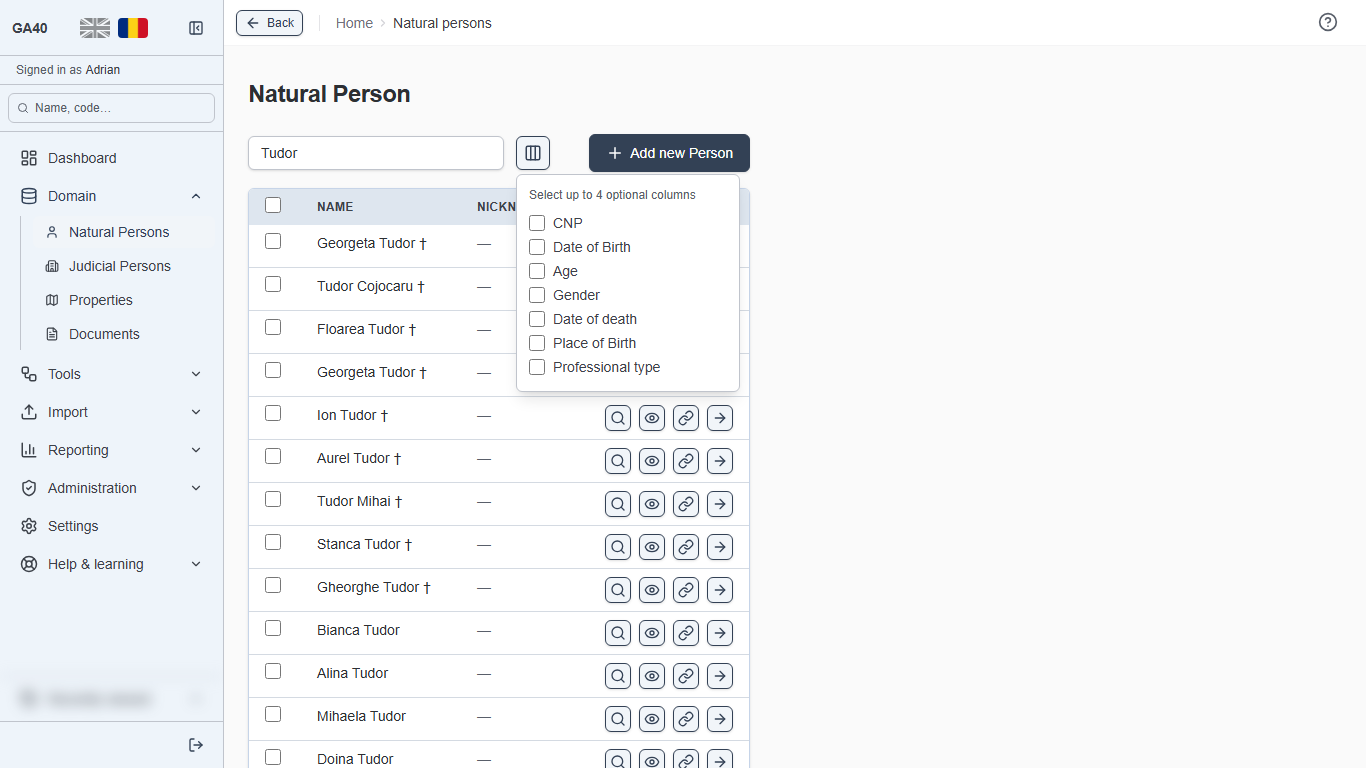
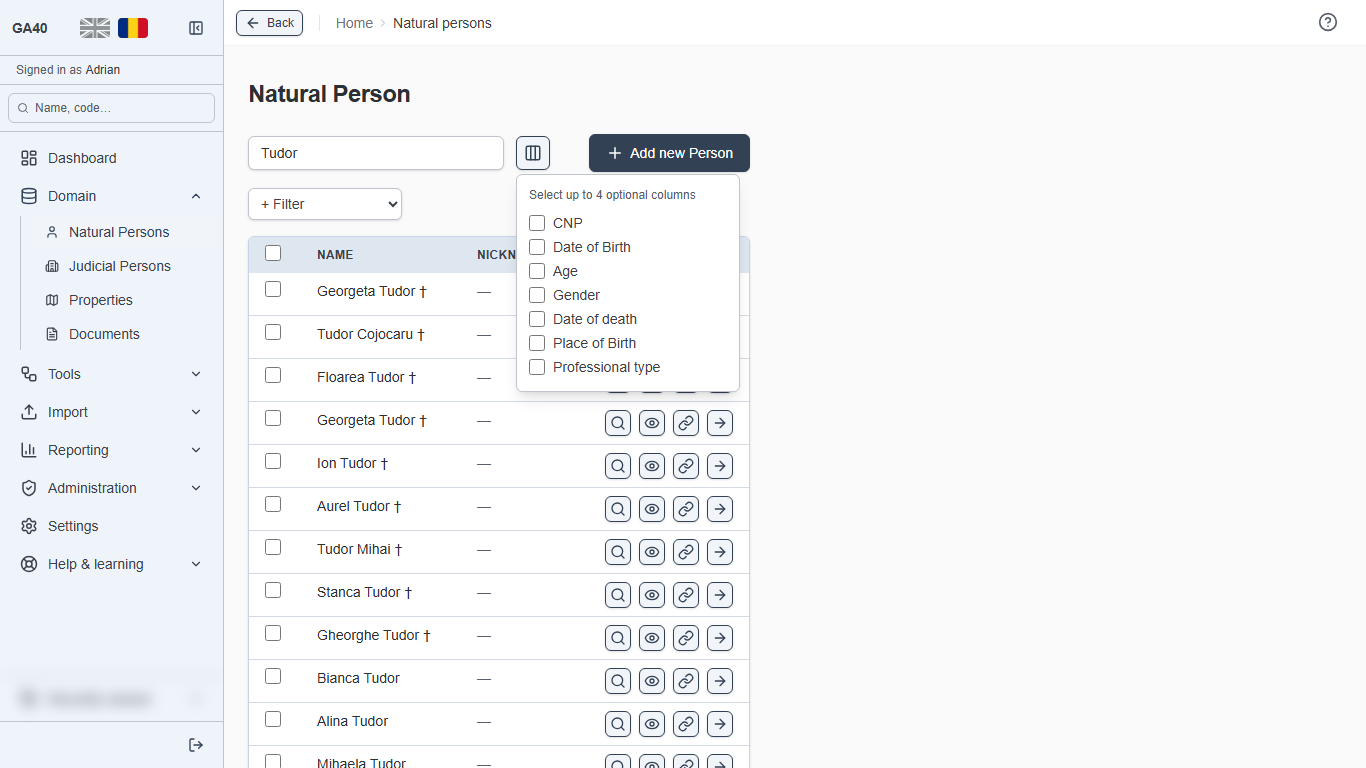
docs(testing): TC-DOC-27 automated; the manual's list figure re-shot (#39.63)
TC-DOC-27 is `automated` on the runner's targeted 20261017T043855Z-2191 on
18fbdca. The manual's figures were re-shot with e2e/help/manual.spec.ts
(20261017T044448Z-22167); only list.png — Persoane fizice, which has had
the filter bar's „+ Filtru” row since #39.62 — is taken, in both
languages. The figure shows names from the dev seed
(scripts/seed-dev-data-big/names.ts) and nothing else that identifies a
person. The other figures that differ byte-wise differ only by live data.
The manual has no figure of the Acte list to re-shoot.

Claude-Session: https://claude.ai/code/session_01HAw7HzTB6iN96oSz25xmre

diff --git a/docs/testing/TEST-CATALOGUE.md b/docs/testing/TEST-CATALOGUE.md
@@ -120,7 +120,7 @@ fixed fixture where the existing one will do.
 | [TC-DOC-24](cases/TC-DOC-24.md) | „Pagini”: creionul „Notițe pagină” scrie, schimbă și șterge notițele unei pagini | document | happy | — | `automated` | 2026-10-10 | `e2e/document/page-notes.spec.ts` |
 | [TC-DOC-25](cases/TC-DOC-25.md) | „Pagini”: un PDF arată doar pagina, fără coloana de miniaturi a browserului | document | happy | — | `automated` | 2026-10-10 | `e2e/document/pdf-page-alone.spec.ts` |
 | [TC-DOC-26](cases/TC-DOC-26.md) | „Șterge” pe un act abia creat: actul dispare din listă; o ștergere eșuată spune de ce și lasă butoanele | document | happy | — | `automated` | 2026-10-14 | `e2e/document/document-delete.spec.ts` |
-| [TC-DOC-27](cases/TC-DOC-27.md) | Lista actelor filtrată cu bara de filtre peste „Tip document” și „Câmp specific”: „Data”, adresa, „Șterge filtrele” | document | happy | — | `confirmed` | 2026-10-17 | `e2e/document/document-list-filters.spec.ts` |
+| [TC-DOC-27](cases/TC-DOC-27.md) | Lista actelor filtrată cu bara de filtre peste „Tip document” și „Câmp specific”: „Data”, adresa, „Șterge filtrele” | document | happy | — | `automated` | 2026-10-17 | `e2e/document/document-list-filters.spec.ts` |
 | [TC-ASSOC-01](cases/TC-ASSOC-01.md) | Persoană asociată actului cu rol și cotă-parte | association | happy | — | `automated` | 2026-10-03 | `e2e/association/document-person.spec.ts` |
 | [TC-ASSOC-02](cases/TC-ASSOC-02.md) | Proprietate asociată actului | association | happy | — | `automated` | 2026-10-03 | `e2e/association/document-property.spec.ts` |
 | [TC-ASSOC-03](cases/TC-ASSOC-03.md) | Act asociat persoanei, din ecranul persoanei | association | happy | — | `automated` | 2026-10-03 | `e2e/association/person-document.spec.ts` |

diff --git a/docs/testing/cases/TC-DOC-27.md b/docs/testing/cases/TC-DOC-27.md
@@ -5,7 +5,7 @@
 | **Area** | document |
 | **Kind** | happy |
 | **Data** | — |
-| **State** | `confirmed` |
+| **State** | `automated` |
 | **Last green** | 2026-10-17 |
 
 ## What this proves
@@ -61,3 +61,8 @@ A with the same address; after the reload A and the one chip „Data din 01.01.2
 the address
 `?q=TC-E2E-DOC-27&documentTypeIds=<the contract's type>&field=starePlata&value=ACHITAT_INTEGRAL`. The documents were
 deleted (204 ×4). `e2e/document/document-list-filters.spec.ts` translates it.
+
+**2026-10-17 — `automated` (Slice #39.63).** The test runner's targeted run 20261017T043855Z-2191 on 18fbdca ran its
+spec green, with the Acte list's other specs, the list-layout specs, lint, tsc and 21 jest suites; 20261017T044339Z-16610
+on the same commit ran the other 20 suites that read the list. That commit also made „Tip document:" and „Câmp
+specific:" the filter bar's first, fixed chips; this case names no place for them, so nothing in it changed.
